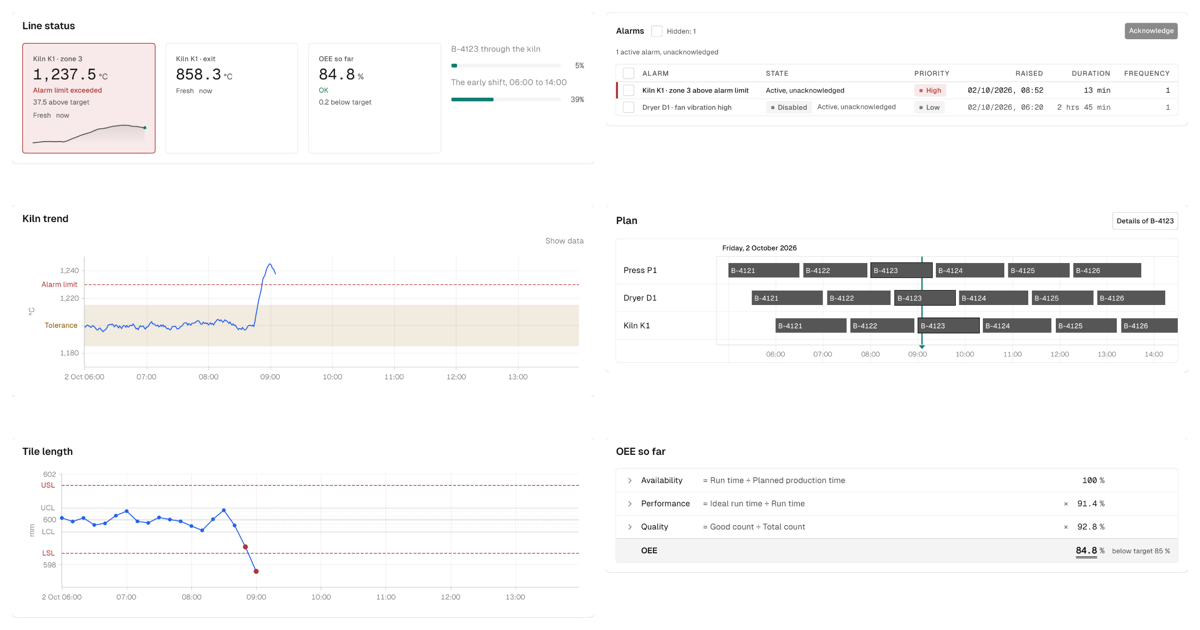
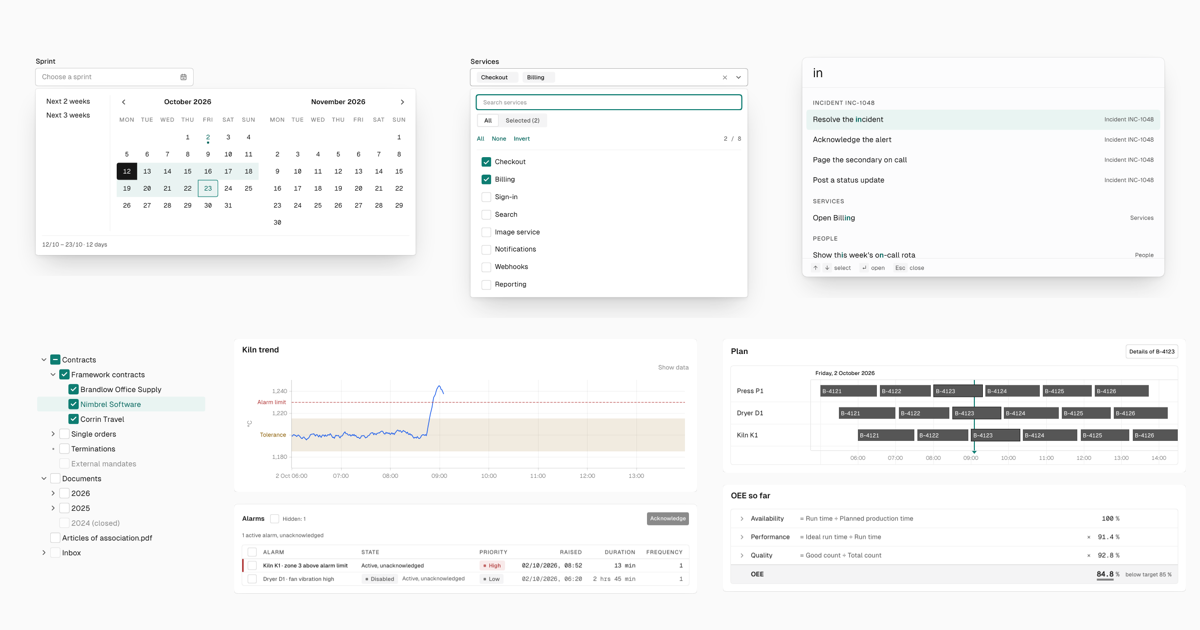
site: the preview image leads with core's controls, opened

diff --git a/.scratch/search-visibility/spec.md b/.scratch/search-visibility/spec.md
@@ -31,7 +31,7 @@ metadata, npm's metadata, Google Search Console, Bing Webmaster Tools.
 | D6 | Prerendering | Static HTML per page from the data of `packages/demo/src/tooling/llms.ts` — heading, lead, every example's source, the props tables — inside `#root`; the app replaces it with `createRoot` (not hydration). |
 | D7 | Old hash links | Forwarded at start: `/core/#/card/x` → `/core/card/#x`. `llms.txt`, READMEs and changelog links move to paths. |
 | D8 | Title and description | By formula, no SEO fields of their own. Title `<Page> – React <noun> · @umriss-ui/<package>`, the noun from one map per package (component, chart, table, schedule, calculation). Description = the page's existing summary line. A weak page is fixed in its summary, which improves the demo and `llms.txt` too. |
-| D9 | The front page | `site/index.html` becomes the hub: a searchable title, a link to every page of every package, `sitemap.xml`, `canonical`, `og:` tags, JSON-LD `SoftwareSourceCode` per package. **Revised 2 Oct 2026:** the front page is named `umriss-ui`, as searched, not `umriss`; and every page carries one preview image (`scripts/og-image.png`, the kiln scenario's control room), by the user's choice. |
+| D9 | The front page | `site/index.html` becomes the hub: a searchable title, a link to every page of every package, `sitemap.xml`, `canonical`, `og:` tags, JSON-LD `SoftwareSourceCode` per package. **Revised 2 Oct 2026:** the front page is named `umriss-ui`, as searched, not `umriss`; and every page carries one preview image (`scripts/og-image.png`, core's controls opened above parts of the kiln scenario), by the user's choice. |
 | D10 | Wording | English only (ADR-0018). The first line (the part before the dash) of every package description and README carries the search terms; the voice after it stays. |
 | D11 | Search consoles | Google Search Console and Bing, URL-prefix property on the Pages address. The user creates them; the verification file is copied into `site/` by `build-pages.mjs`. |
 | D12 | GitHub metadata | Done on 27 Sep via `gh`: description, homepage, 15 topics. |

diff --git a/docs/journal.md b/docs/journal.md
@@ -28,9 +28,11 @@ as it stood.
   `og:site_name` - the name a searcher types; `umriss` alone is a German word
   and competes with it.
 - **One preview image for every page** (revises D9 and the spec's out of
-  scope): the kiln scenario's control room at 1200 x 630, `og:image` with its
-  size and alt text and `twitter:card`. Taken by hand from the built core demo;
-  renewed by hand when the scenario changes.
+  scope), 1200 x 630, `og:image` with its size and alt text and
+  `twitter:card`. A first cut of the kiln scenario alone read as a charts
+  library, by the user's eye; the picture now shows core's controls opened -
+  date range picker, multi-select, command palette, tree - above one part each
+  of the other packages. Taken by hand from the built demos; renewed by hand.
 
 ## Oct. 2026 — The select's own list
 
